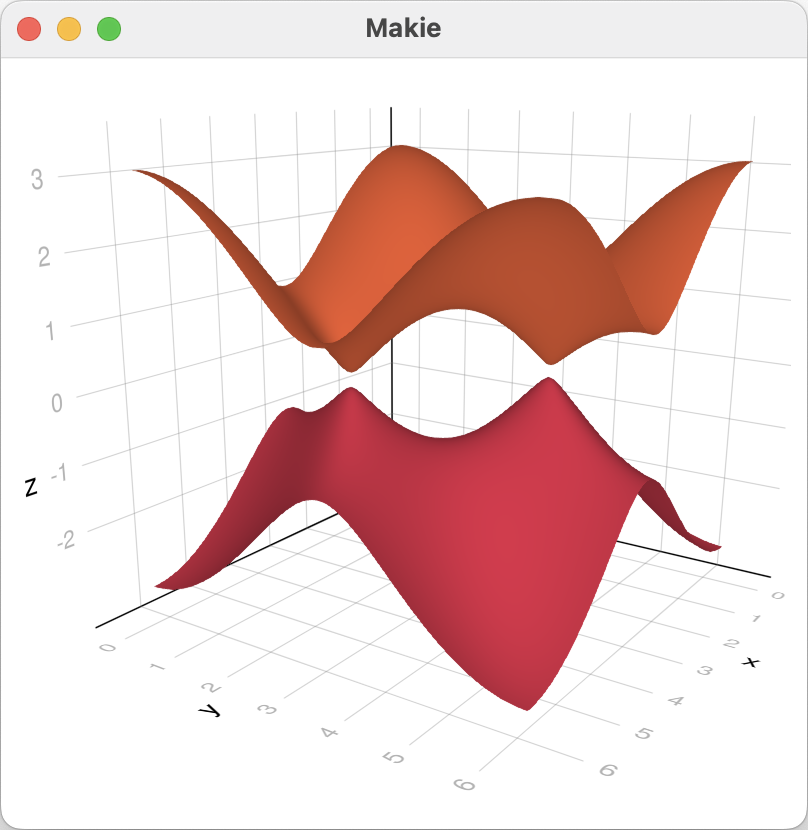
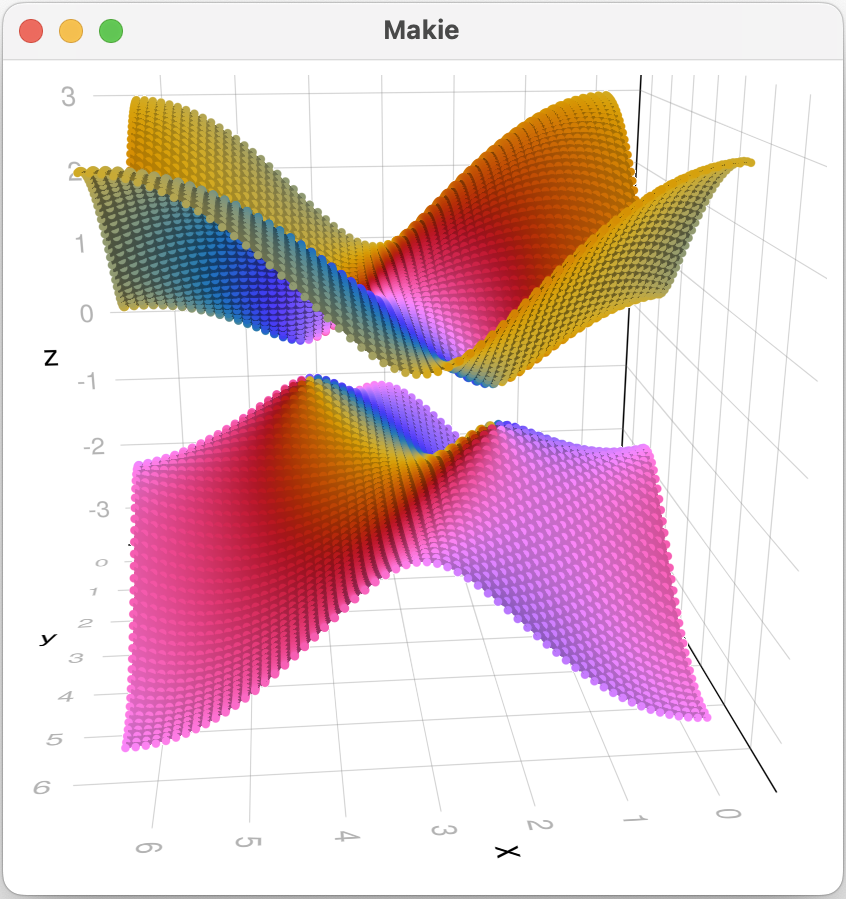
updated README

diff --git a/README.md b/README.md
@@ -22,35 +22,36 @@ Some of this functionality, particularly visualization, requires loading some pl
 
 # Example
 
-A step-by-step construction and visualization of a Kane-Mele model with Gaussian onsite disorder, including interactive tooltips to examine each. We then compute its bandstructure and visualize it.
+A step-by-step construction and visualization of a Kane-Mele model (parametrized by spin orbit strength α)and of its bandstructure, encoding the pseudospin orientation in the color of the subbands.
 
 ```julia
 julia> using Quantica, GLMakie
 
 julia> SOC(dr) = ifelse(iseven(round(Int, atan(dr[2], dr[1])/(pi/3))), im, -im); # Kane-Mele spin-orbit coupling
 
-julia> model = hopping(1, range = 1/√3) + 0.02 * hopping((r, dr) -> SOC(dr), sublats = :A => :A, range = 1) - 0.02 * hopping((r, dr) -> SOC(dr), sublats = :B => :B, range = 1) + onsite(r -> 0.1 * randn());
+julia> model = hopping(1, range = 1/√3) + @hopping((r, dr; α = 0) -> α * SOC(dr); sublats = :A => :A, range = 1) - @hopping((r, dr; α = 0) -> α * SOC(dr); sublats = :B => :B, range = 1);
 
 julia> h = LatticePresets.honeycomb(a0 = 1) |> hamiltonian(model)
-Hamiltonian{Float64,2,2}: Hamiltonian on a 2D Lattice in 2D space
+ParametricHamiltonian{Float64,2,2}: Parametric Hamiltonian on a 2D Lattice in 2D space
   Bloch harmonics  : 7
   Harmonic size    : 2 × 2
   Orbitals         : [1, 1]
   Element type     : scalar (ComplexF64)
-  Onsites          : 2
+  Onsites          : 0
   Hoppings         : 18
   Coordination     : 9.0
+  Parameters       : [:α]
 
-julia> qplot(h, inspector = true)
+julia> qplot(h(0.02), inspector = true)
 
-julia> b = bands(h, range(0, 2pi, length=100), range(0, 2pi, length=100))
+julia> b = bands(h(α = 0.05), range(0, 2pi, length=60), range(0, 2pi, length = 60))
 Bands{Float64,3,2}: 3D Bands over a 2-dimensional parameter space of type Float64
   Subbands  : 2
-  Vertices  : 20000
-  Edges     : 59202
-  Simplices : 39204
+  Vertices  : 7200
+  Edges     : 21122
+  Simplices : 13924
 
-julia> qplot(b)
+julia> qplot(b, color = (psi, e, k) -> angle(psi[1] / psi[2]), colormap = :cyclic_mrybm_35_75_c68_n256)
 ```
 
 <p float="left">
